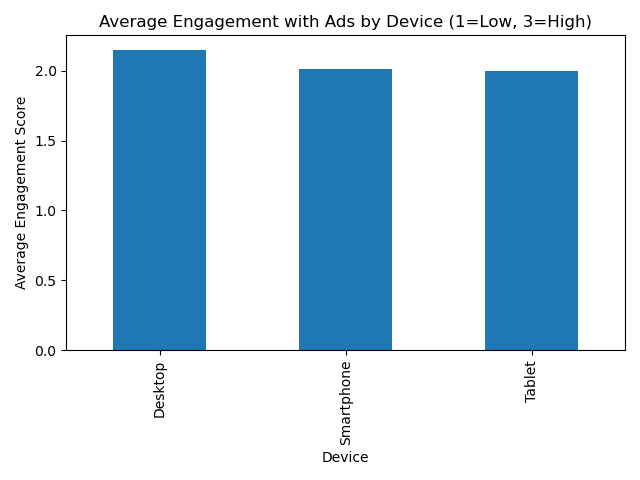
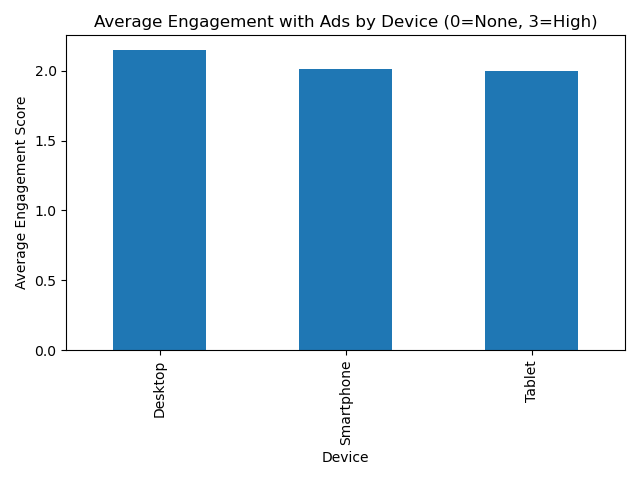
style changes

Changed region(s): [[0.125, 0.0312, 0.9375, 0.0625]]

diff --git a/README.md b/README.md
@@ -3,7 +3,7 @@
 
 [![CI](https://github.com/TeaTafaj/Consumer-Behavior-HW-2/actions/workflows/ci.yml/badge.svg)](https://github.com/TeaTafaj/Consumer-Behavior-HW-2/actions/workflows/ci.yml)  
 
-This project is part of a two-week data engineering assignment. It explores **consumer behavior** using Python (Pandas, Matplotlib, scikit-learn). The analysis investigates the relationship between **device type** and **ad engagement**, includes data cleaning, filtering, grouping, visualization, and a first machine learning experiment.  
+This project explores **consumer behavior** using Python (Pandas, Matplotlib, scikit-learn). The analysis investigates the relationship between **device type** and **ad engagement**, includes data cleaning, filtering, grouping, visualization, and a first machine learning experiment.  
 Dataset: Ecommerce Consumer Behavior Data from Kaggle, https://www.kaggle.com/datasets/salahuddinahmedshuvo/ecommerce-consumer-behavior-analysis-data
 
 ---
@@ -36,8 +36,8 @@ Shoppers using Smartphone devices have higher engagement with ads than shoppers 
 
 ### 2. Data Cleaning  
 - Dropped rows with missing `Engagement_with_Ads` values  
-- Standardized text values (`Low`, `Medium`, `High`)  
-- Converted engagement to numeric scores (`Low=1, Medium=2, High=3`)  
+- Standardized text values ('None', `Low`, `Medium`, `High`)  
+- Converted engagement to numeric scores ('None'=0,`Low=1, Medium=2, High=3`)  
 
 ### 3. Filtering  
 - Extracted subsets of data (e.g., only smartphone users)  
@@ -92,11 +92,3 @@ make clean     # clean up cache and generated files
 
 Run: pytest -q
 
-#🤖 Continuous Integration
-
--This repo uses GitHub Actions for CI:
--Installs dependencies
--Runs flake8 linting
--Executes pytest tests
--Smoke-runs the analysis script
--The build badge above reflects the latest workflow status.
